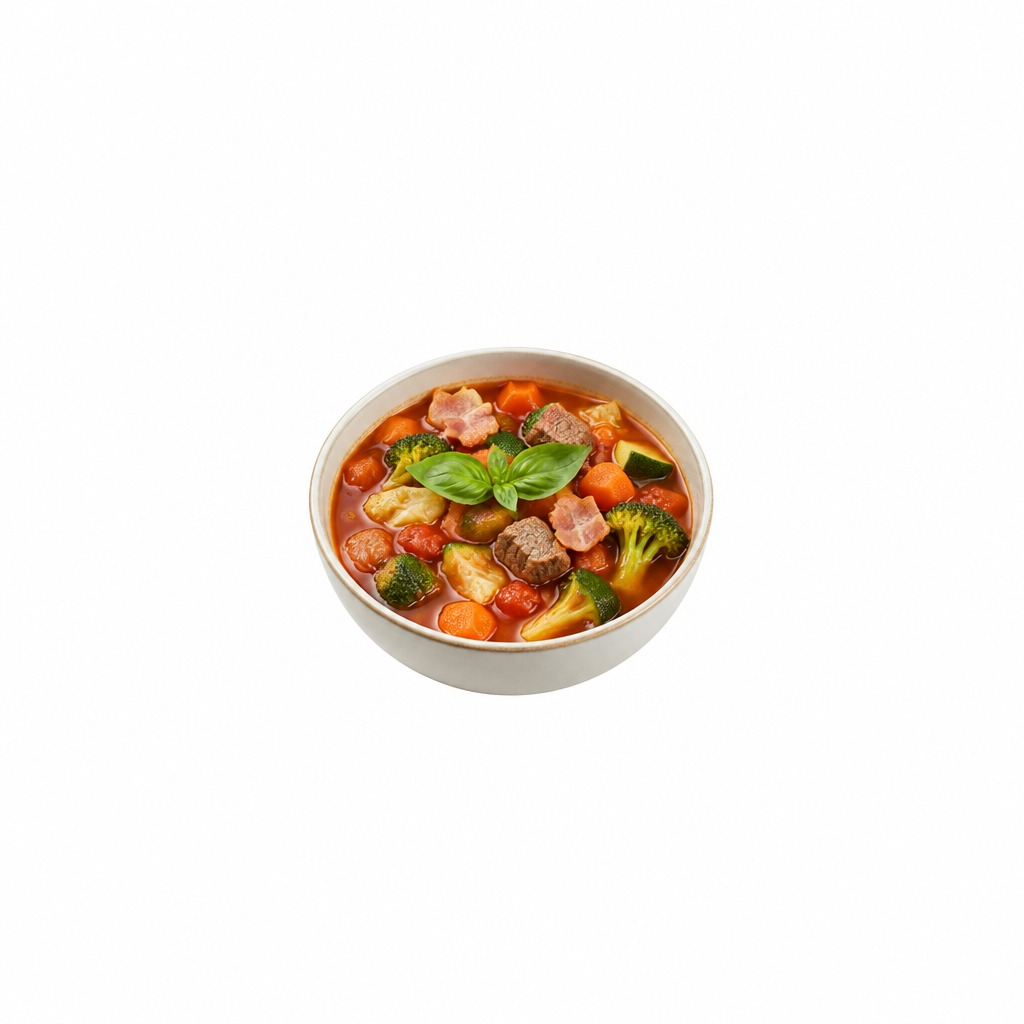
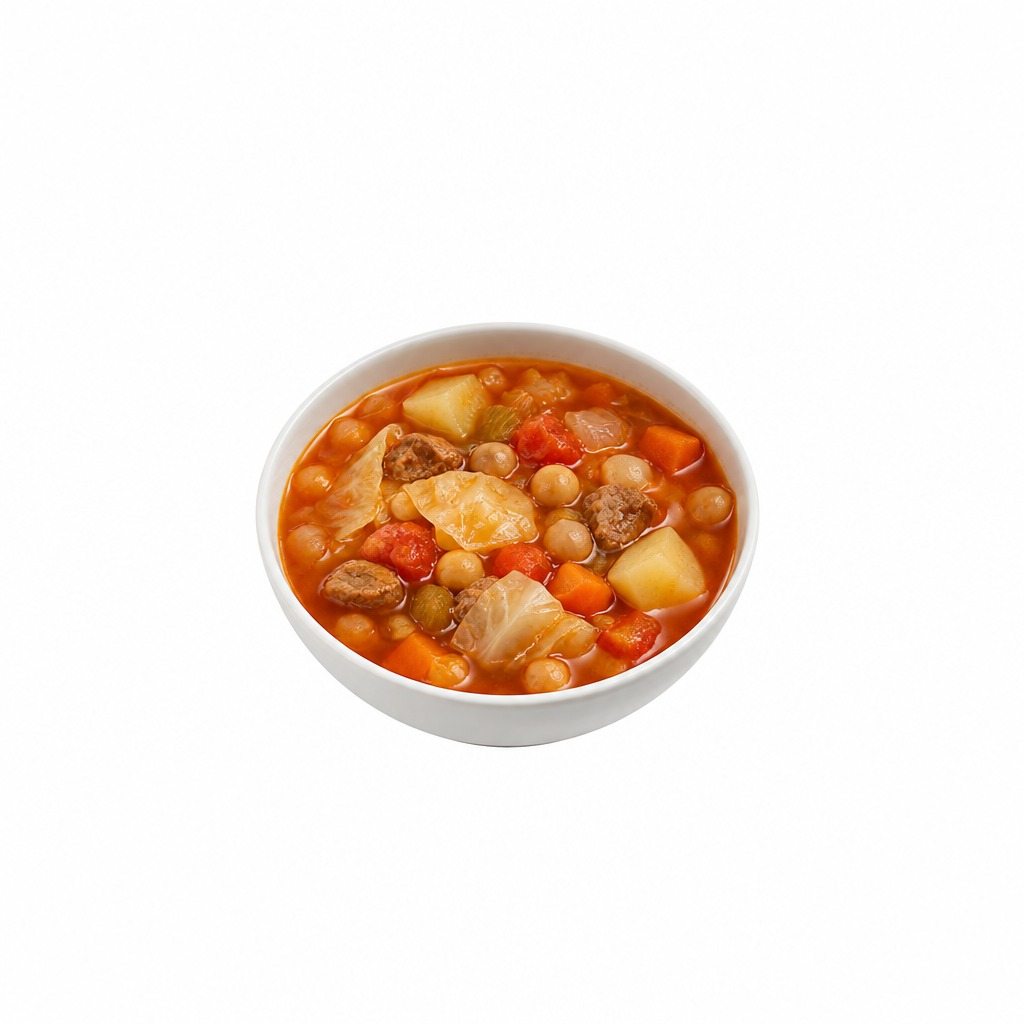
간편 마녀스프 그림(소고기·감자·양배추·병아리콩)
Claude-Session: https://claude.ai/code/session_016KvtRY6zJFv8cZcsmX6fJr

Changed region(s): [[0.25, 0.3125, 0.75, 0.75]]

diff --git a/hankki/design/테마아이콘-2611/새레시피32-1123/목록.md b/hankki/design/테마아이콘-2611/새레시피32-1123/목록.md
@@ -3,7 +3,7 @@
 01 스팸 땡초 김밥 · 02 키토 아침김밥 · 03 크래미 오이 김밥 · 04 묵은지 불고기 김밥
 05 백종원 시장 떡볶이 · 06 어남선생 평생 떡볶이 · 07 바질크림떡볶이 · 08 백종원 짜장떡볶이
 09 로제떡볶이 · 10 백종원 크림떡볶이 · 11 궁중떡볶이(갱스홈쿡) · 12 귀열이네 고추장 기름떡볶이
-13 양송이감자스프 · 14 아웃백 스타일 양송이 스프 · 15 토마토수프 · 16 마녀스프 · 17 브로콜리 감자 수프
+13 양송이감자스프 · 14 아웃백 스타일 양송이 스프 · 15 토마토수프 · 16 간편 마녀스프(얌혜민 · 11/23 원본 교체) · 17 브로콜리 감자 수프
 18 계란죽 · 19 김대석 소고기야채죽 · 20 영양 닭죽 · 21 새우누룽지죽 · 22 이종임 굴 버섯죽 · 23 속풀이김치죽
 24 애플브리 샌드위치 · 25 감자 토마토 계란 오믈렛 · 26 빵 없는 양배추 샌드위치 · 27 5분 프렌치토스트 · 28 김새우전
 29 감자 닭가슴살 오믈렛 · 30 땅콩 요거트 닭가슴살 오이 샐러드 · 31 피자맛 저칼로리 그라탕 · 32 다이어트 얼큰 김국수
